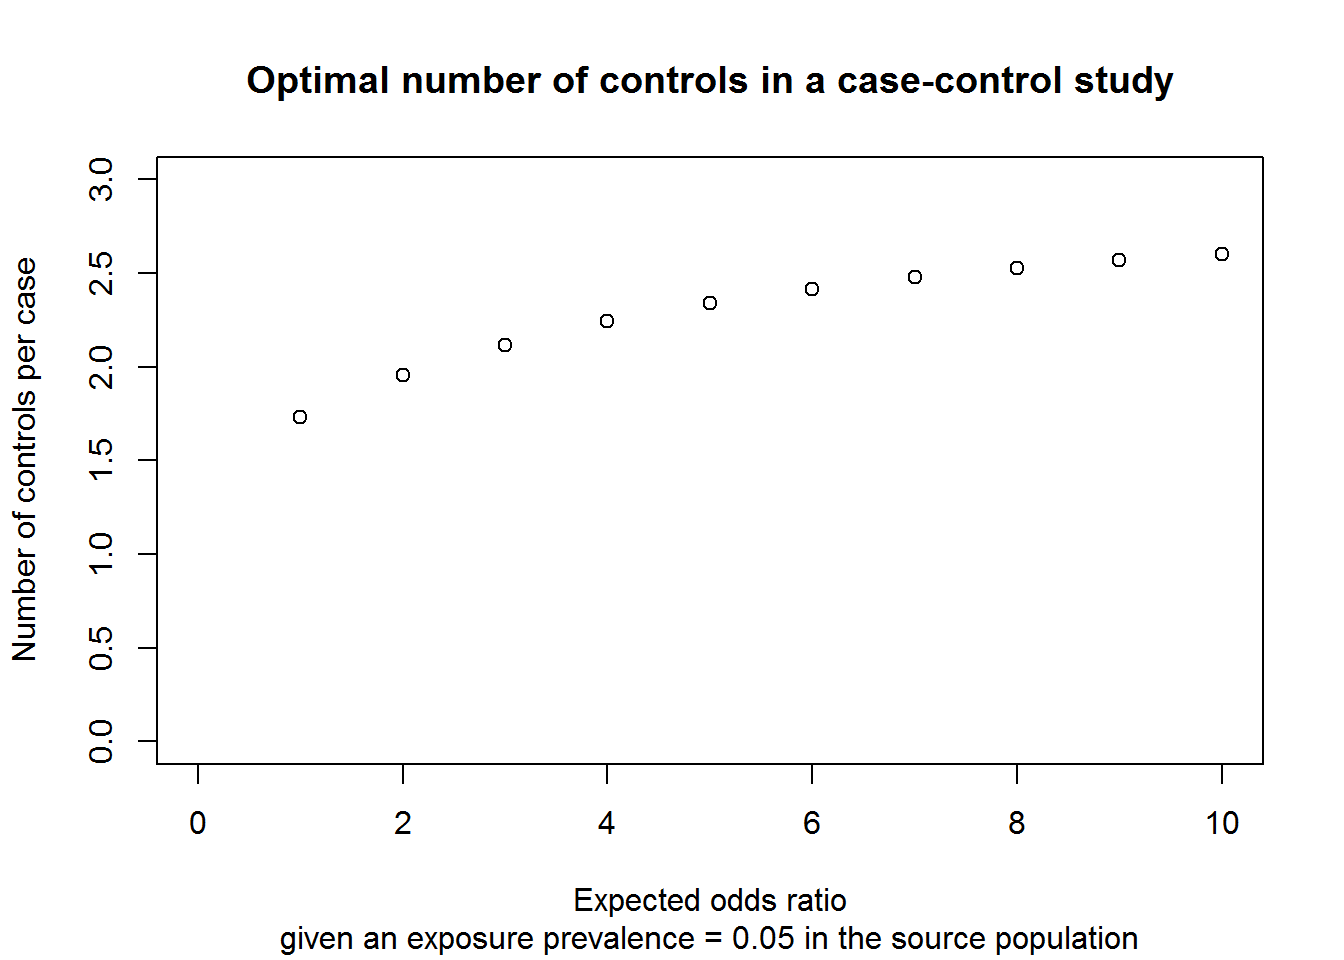
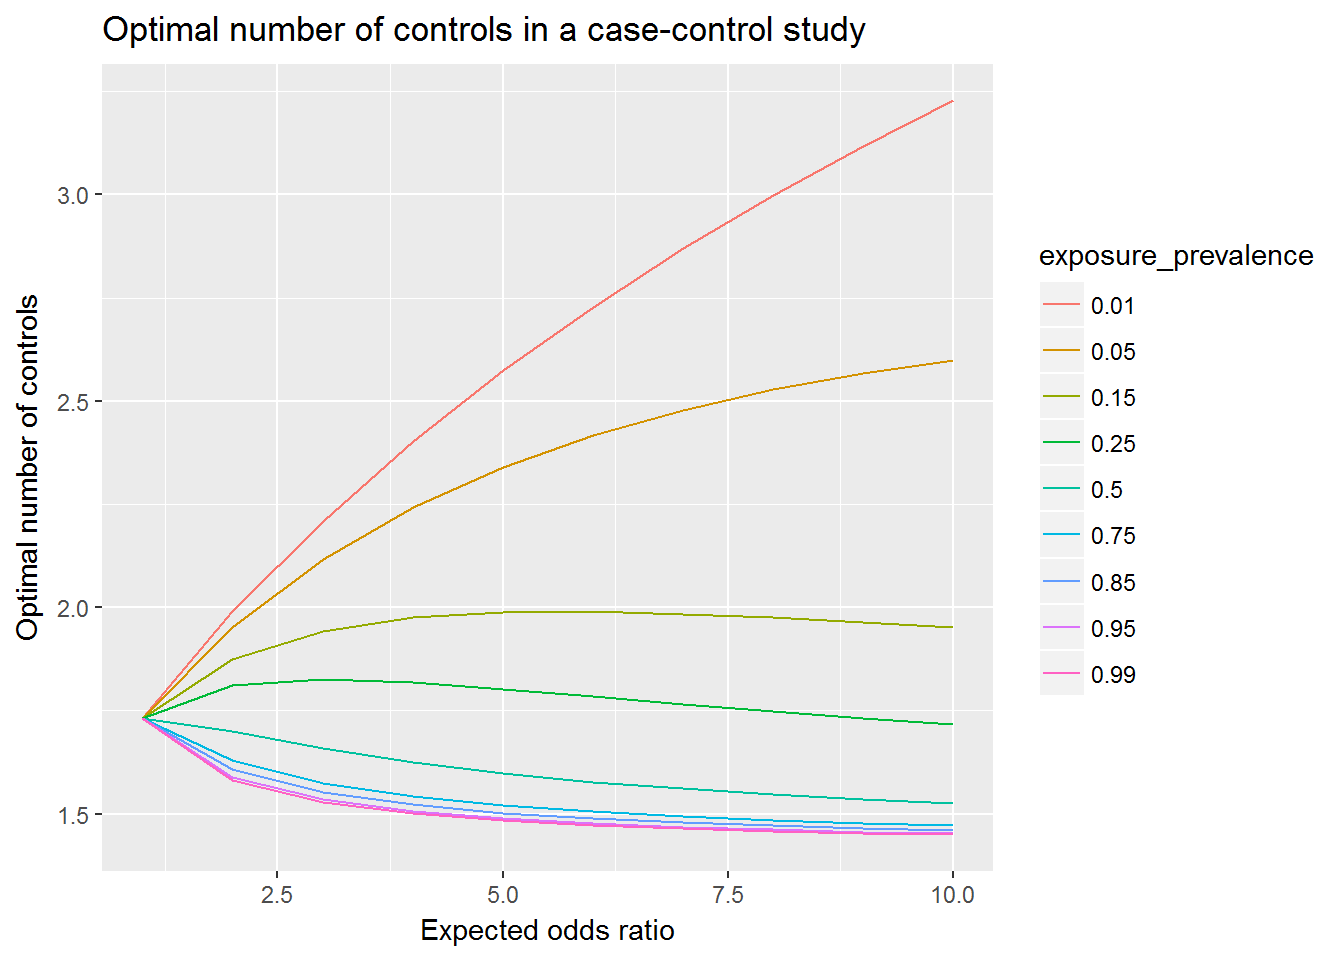
Build site.

diff --git a/docs/optimal_control_rate.html b/docs/optimal_control_rate.html
@@ -316,7 +316,7 @@ shared across the workflowr files. -->
 <p><strong>Last updated:</strong> 2017-10-12</p>
 <!-- Insert the code version (Git commit SHA1) if Git repository exists and R
  package git2r is installed -->
-<p><strong>Code version:</strong> 08d9d97</p>
+<p><strong>Code version:</strong> 5519083</p>
 <!-- Add your analysis here -->
 <div id="question" class="section level1">
 <h1>Question</h1>
@@ -351,27 +351,53 @@ r1 = c(
 <p>Now the ratio of cases:controls</p>
 <p><span class="math inline">\(\frac{N_{cases}}{N_{controls}} = \frac{r_{1}}{1-r_{1}} = 0.51\)</span></p>
 <p>So about 2 controls per case.</p>
-<p>For a range of odds ratios with plot</p>
-<pre class="r"><code>OR = 1:10
-p0 = 0.05
+<p>For a range of odds ratios and exposure rates, with plot</p>
+<pre class="r"><code>require(data.table)
+require(ggplot2)
+require(magrittr)
 
-# the math
-O0 = p0/(1-p0)
-O1 = OR * O0
-p1 = O1/(1+O1)
-a  = ((p1*(1-p1))/(p0*(1-p0))) + 1
+OR = 1:10
+p0_values = c(0.01, 0.05, 0.15, 0.25, 0.5, 0.75, 0.85, 0.95, 0.99)
 
 
-r1 = c(
-  (-2+sqrt(4 - 4*a*(-1)))/(2*a),
-  (-2-sqrt(4 - 4*a*(-1)))/(2*a))
-r1 = r1[r1&gt;0] # pick only the values greater than zero
-ncontrols = (1-r1) / r1
-plot(OR, ncontrols, 
-     xlim = c(0, max(OR)),
-     ylim = c(0, ceiling(max(ncontrols))),
-     ylab = &quot;Number of controls per case&quot;, xlab = &quot;Expected odds ratio&quot;, 
-     main = &quot;Optimal number of controls in a case-control study&quot;, sub = &quot;given an exposure prevalence = 0.05 in the source population&quot;)</code></pre>
+control_array = matrix(nrow = length(OR), ncol = length(p0_values))
+for (i in 1:length(p0_values)) {
+  p0 = p0_values[i]
+  
+  # the math
+  O0 = p0/(1-p0)
+  O1 = OR * O0
+  p1 = O1/(1+O1)
+  a  = ((p1*(1-p1))/(p0*(1-p0))) + 1
+  
+  
+  r1 = c(
+    (-2+sqrt(4 - 4*a*(-1)))/(2*a),
+    (-2-sqrt(4 - 4*a*(-1)))/(2*a))
+  r1 = r1[r1&gt;0] # pick only the values greater than zero
+  ncontrols = (1-r1) / r1
+  control_array[,i] = ncontrols
+}
+
+df &lt;- as.data.table(control_array)
+df[, OR:=OR]
+df_melt &lt;- melt(df, id.vars = &quot;OR&quot;, 
+                variable.name = &quot;exposure_prevalence&quot;, value.name = &quot;n_controls&quot;)
+df_melt[, exposure_prevalence:=factor(exposure_prevalence, 
+                                      levels = setdiff(colnames(df), &quot;OR&quot;),
+                                      labels = p0_values)]
+
+# plot(OR, ncontrols, 
+#      xlim = c(0, max(OR)),
+#      ylim = c(0, ceiling(max(ncontrols))),
+#      ylab = &quot;Number of controls per case&quot;, xlab = &quot;Expected odds ratio&quot;, 
+#      main = &quot;Optimal number of controls in a case-control study&quot;, sub = &quot;given an exposure prevalence = 0.05 in the source population&quot;)
+
+df_melt %&gt;%
+  ggplot(aes(x = OR, y = n_controls, col = exposure_prevalence)) + 
+  geom_line() + 
+  labs(x = &quot;Expected odds ratio&quot;, y = &quot;Optimal number of controls&quot;,
+       title = &quot;Optimal number of controls in a case-control study&quot;)</code></pre>
 <p><img src="figure/optimal_control_rate.Rmd/unnamed-chunk-2-1.png" width="672" style="display: block; margin: auto;" /></p>
 <div id="session-information" class="section level2">
 <h2>Session information</h2>
@@ -391,11 +417,18 @@ locale:
 attached base packages:
 [1] stats     graphics  grDevices utils     datasets  methods   base     
 
+other attached packages:
+[1] magrittr_1.5       ggplot2_2.2.1.9000 data.table_1.10.4 
+
 loaded via a namespace (and not attached):
- [1] compiler_3.4.1  backports_1.1.0 magrittr_1.5    rprojroot_1.2  
- [5] tools_3.4.1     htmltools_0.3.6 yaml_2.1.14     Rcpp_0.12.12   
- [9] stringi_1.1.5   rmarkdown_1.6   knitr_1.17      git2r_0.19.0   
-[13] stringr_1.2.0   digest_0.6.12   evaluate_0.10.1</code></pre>
+ [1] Rcpp_0.12.12      knitr_1.17        munsell_0.4.3    
+ [4] colorspace_1.3-2  rlang_0.1.2       stringr_1.2.0    
+ [7] plyr_1.8.4        tools_3.4.1       grid_3.4.1       
+[10] gtable_0.2.0      git2r_0.19.0      htmltools_0.3.6  
+[13] yaml_2.1.14       lazyeval_0.2.0    rprojroot_1.2    
+[16] digest_0.6.12     tibble_1.3.4      evaluate_0.10.1  
+[19] rmarkdown_1.6     labeling_0.3      stringi_1.1.5    
+[22] compiler_3.4.1    scales_0.5.0.9000 backports_1.1.0  </code></pre>
 </div>
 </div>
 
